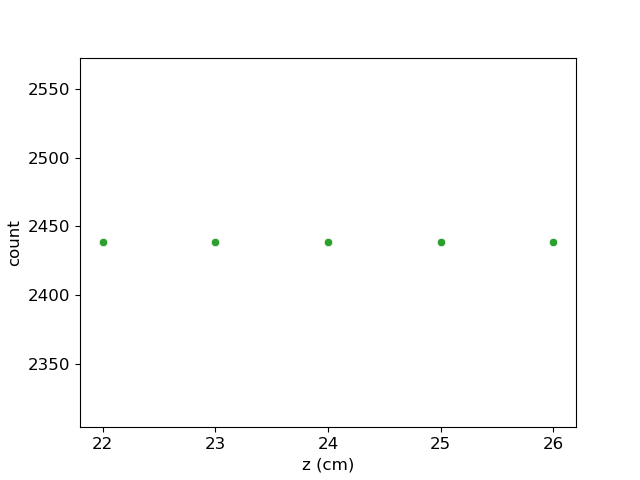
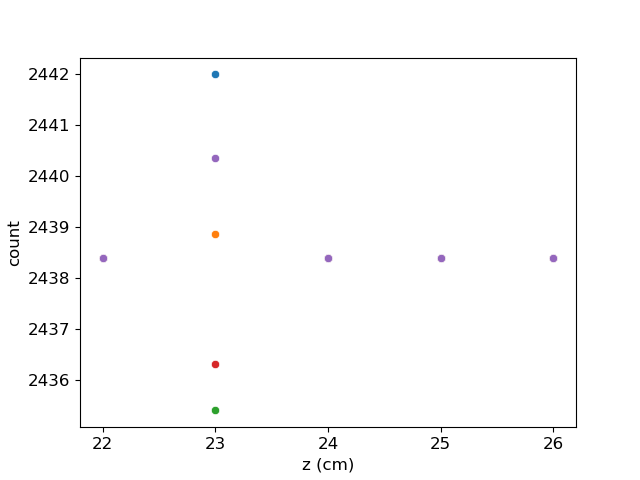
funções de automação adicionadas

diff --git a/main.py b/main.py
@@ -45,9 +45,6 @@ class MainWidget(BoxLayout):
         super(MainWidget, self).__init__(**kwargs)
         self.date = datetime.date.today()
 
-        # if self.ids.swtch_auto_collect.active:
-        #     Clock.schedule_interval(update, 1/60)
-
     # Compile the new data to a dataframe
     def add_measure(self):
         self.on_material_val(self.ids.material)
@@ -166,19 +163,47 @@ class MainWidget(BoxLayout):
             self.plot_img = 'imgs/z-contagem.png'
             self.ids.img_plt.reload()
 
-    # def update(self, dt):
-    #     self.add_measure()
-    #     pass
+    def activate_auto_collect(self):
+        if self.ids.tg_auto_collect.state == 'normal':
+            self.ids.button_add.disabled = False
+            self.ids.num_points.disabled = False     
 
-    def test(self):
         if self.ids.tg_auto_collect.state == 'down':
             self.ids.button_add.disabled = True
             self.ids.num_points.disabled = True
+            self.index = 0
+            Clock.schedule_interval(self.update, float(self.time))
 
-        if self.ids.tg_auto_collect.state == 'normal':
-            self.ids.button_add.disabled = False
-            self.ids.num_points.disabled = False
+    def update(self, dt):
+        self.on_material_val(self.ids.material)
+        self.on_posx_val(self.ids.posx)
+        self.on_posz_val(self.ids.posz)
+        self.on_time_val(self.ids.time)
+        self.on_filename_val(self.ids.filename)
+        self.on_angle_val(self.ids.angle)
+        self.on_temperature_val(self.ids.temperature)
+        self.get_measure()
+
+        if not Path(f'resultados/{self.filename}.csv').is_file():
+            self.create_file()
+            self.time_diff = 0
+
+        with open(f'resultados/{self.filename}.csv', 'a', newline='') as file:
+            writer = csv.writer(file)
+            self.data = [self.date,
+                        self.material,
+                        self.index,
+                        self.posx,
+                        self.posz,
+                        self.measure[self.index],
+                        (float(self.time) * self.index),
+                        self.angle,
+                        self.temperature]
+            writer.writerow(self.data)
+            file.close()
         
+        self.index += 1
+        self.show_plots()
 
 class LabSepApp(App):
     pass

diff --git a/graphs.py b/graphs.py
@@ -8,24 +8,21 @@ def zcount(filename):
     data = pd.read_csv(f'resultados/{filename}.csv')
     plot_data = {
         'z (cm)': data.z.unique(),
-        'x (cm)': data.x.unique(),
         'count': []
     }
 
 
-    for item_x in plot_data['x (cm)']:
-        for item_z in plot_data['z (cm)']:
-            val = data.query('z == @item_z and x == @item_x').contagem.mean()
-            plot_data['count'].append(val)
+    for item_z in plot_data['z (cm)']:
+        val = data.query('z == @item_z').contagem.mean()
+        plot_data['count'].append(val)
 
     plot_data = pd.DataFrame(plot_data)
 
     sns.scatterplot(
         data = plot_data,
         x = 'z (cm)',
-        y = 'count',
-        hue = 'x (cm)'
+        y = 'count'
     )
     plt.xticks(plot_data['z (cm)'])
-    plt.legend(title = 'x (cm)', bbox_to_anchor=(1,1))
+    # plt.legend(title = 'x (cm)', bbox_to_anchor=(1,1))
     plt.savefig('imgs/z-contagem.png')
